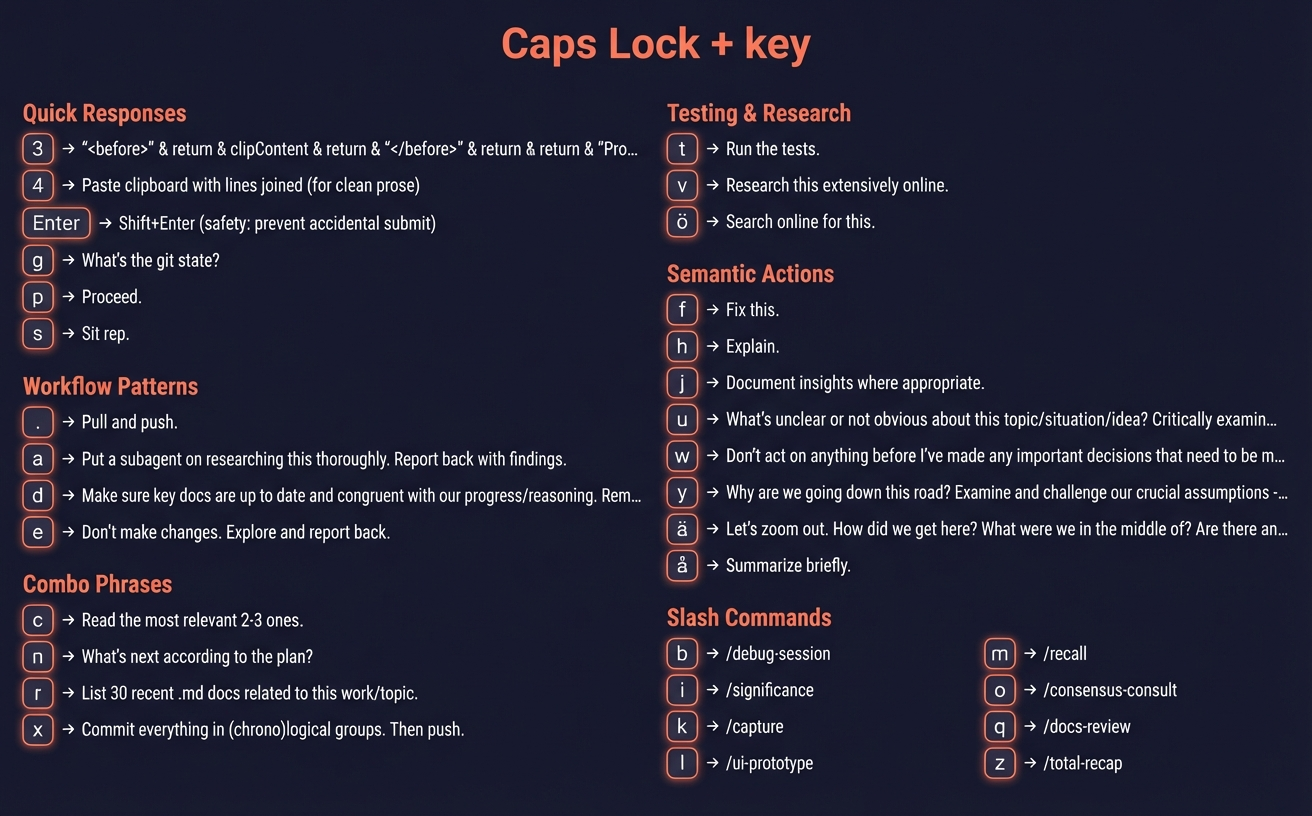
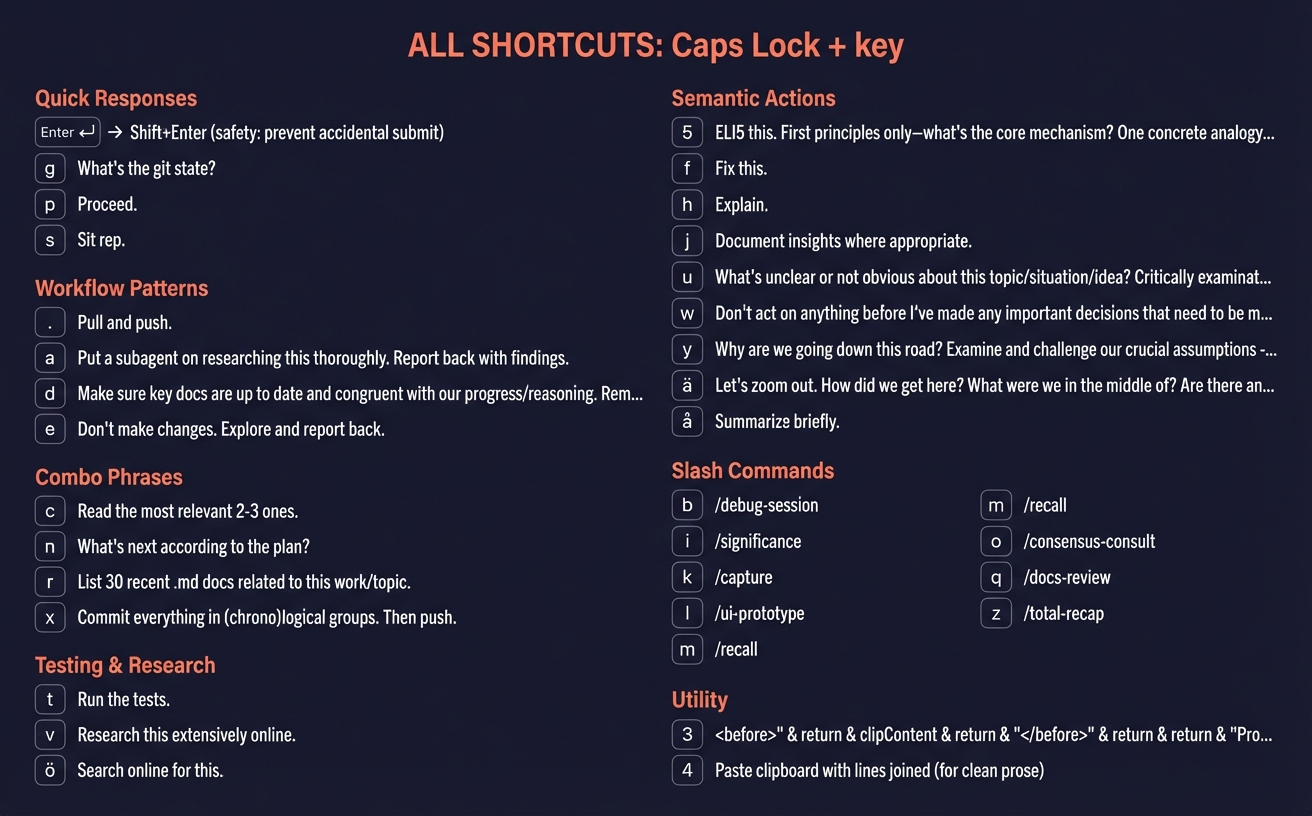
Add Caps+5 → ELI5 / first principles shortcut
New shortcut outputs: "ELI5 this. First principles only—what's the
core mechanism? One concrete analogy that bridges from the abstract
to everyday experience."

- Added to Semantic Actions tier (tier 5) alongside u, y, ä
- Adapted phrasing to user's "bridger of cognitive styles" profile
- Updated cheatsheet generation script with new tier assignments
- Regenerated both keyboard and Xbox cheatsheets

Changed region(s): [[0.0, 0.0306, 0.9688, 0.9804]]

diff --git a/scripts/generate_cheatsheet_ai.py b/scripts/generate_cheatsheet_ai.py
@@ -52,6 +52,7 @@ KEYBOARD_TIER_NAMES = {
     4: "Testing & Research",
     5: "Semantic Actions",
     6: "Slash Commands",
+    7: "Utility",
 }
 
 TIER_ASSIGNMENTS = {
@@ -59,8 +60,9 @@ TIER_ASSIGNMENTS = {
     "d": 2, "e": 2, "a": 2, ".": 2,  # Workflow Patterns
     "x": 3, "r": 3, "n": 3, "c": 3,  # Combo Phrases (c = "Read relevant 2-3")
     "t": 4, "ö": 4, "v": 4,  # Testing & Research
-    "u": 5, "w": 5, "å": 5, "f": 5, "h": 5, "j": 5, "ä": 5, "y": 5,  # Semantic Actions (u = "Unclear/assumptions")
+    "u": 5, "w": 5, "å": 5, "f": 5, "h": 5, "j": 5, "ä": 5, "y": 5, "5": 5,  # Semantic Actions (u = "Unclear", 5 = "ELI5")
     "m": 6, "k": 6, "i": 6, "b": 6, "l": 6, "o": 6, "q": 6, "z": 6,  # Slash Commands
+    "3": 7, "4": 7,  # Utility (transcript resume, paste joined)
 }
 
 

diff --git a/CLAUDE.md b/CLAUDE.md
@@ -140,8 +140,9 @@ When designing shortcut phrases, follow these principles:
    - r → Enumerate docs (list 30 recent .md files)
    - c → Read relevant docs (most relevant 2-3)
 4. **Testing & Research** - Run tests, search online (t, ö, v)
-5. **Semantic Actions** - Examine, wait, summarize, fix, explain, document, challenge, zoom (u, w, å, f, h, j, y, ä)
+5. **Semantic Actions** - Examine, wait, summarize, fix, explain, document, challenge, zoom, ELI5 (u, w, å, f, h, j, y, ä, 5)
    - u → Unclear/examine assumptions (rank weakest to strongest)
+   - 5 → ELI5 / first principles (core mechanism + bridging analogy)
    - j → Document insights where appropriate
    - y → Challenge assumptions (deeper why)
    - ä → Zoom out (open loops check)
